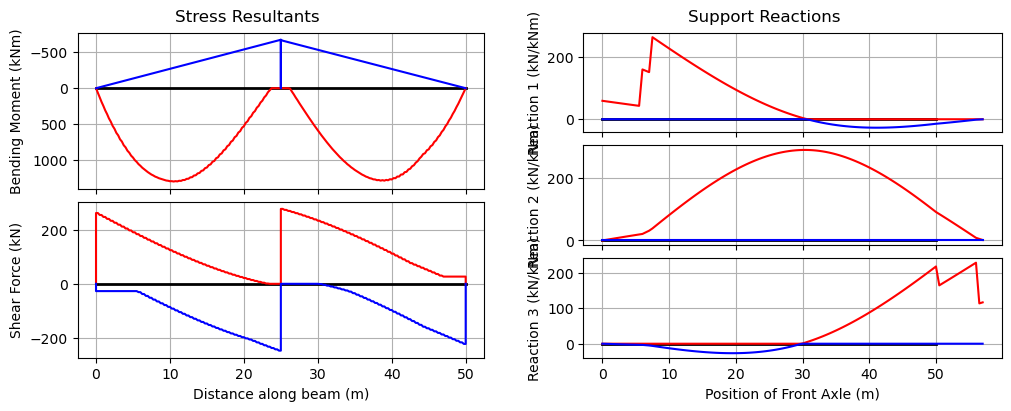
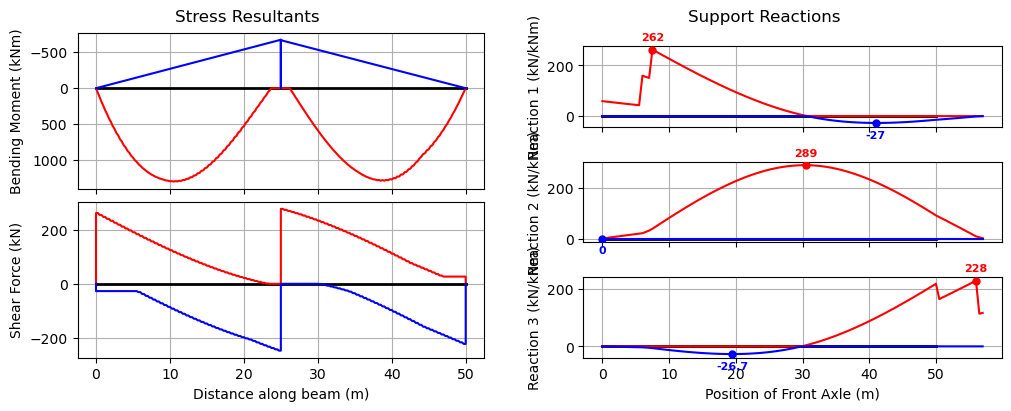
Update documentation

diff --git a/general.html b/general.html
@@ -700,15 +700,35 @@ Use <code class="docutils literal notranslate"><span class="pre">None</span></co
 </section>
 <section id="element-types-eletype">
 <h2>Element Types (<code class="docutils literal notranslate"><span class="pre">eleType</span></code>)<a class="headerlink" href="#element-types-eletype" title="Link to this heading">#</a></h2>
-<p>Each member can be one of several element types, depending on the presence of hinges in the beam.</p>
-<p><strong>Note that at a hinge, only one of the members meeting at that node should have a pinned end.</strong></p>
-<p>The element types are given by an index:</p>
+<p>Each member can be one of several element types, depending on the presence of
+hinges in the beam. The two letters read left end then right end (<code class="docutils literal notranslate"><span class="pre">F</span></code> =
+fixed/continuous, <code class="docutils literal notranslate"><span class="pre">P</span></code> = pinned/released):</p>
 <ol class="arabic simple">
-<li><p>fixed-fixed</p></li>
-<li><p>fixed-pinned</p></li>
-<li><p>pinned-fixed</p></li>
-<li><p>pinned-pinned</p></li>
+<li><p><code class="docutils literal notranslate"><span class="pre">FF</span></code> — fixed-fixed (the default)</p></li>
+<li><p><code class="docutils literal notranslate"><span class="pre">FP</span></code> — fixed-pinned (moment released at the right end)</p></li>
+<li><p><code class="docutils literal notranslate"><span class="pre">PF</span></code> — pinned-fixed (moment released at the left end)</p></li>
+<li><p><code class="docutils literal notranslate"><span class="pre">PP</span></code> — pinned-pinned (released at both ends)</p></li>
 </ol>
+<p><strong>Note that at a hinge, only one of the members meeting at that node should have a pinned end.</strong></p>
+<p>An element type can be given as the integer index, as a <code class="docutils literal notranslate"><span class="pre">MemberType</span></code> enum
+member, or as its case-insensitive name string — the three forms are
+equivalent:</p>
+<div class="highlight-python notranslate"><div class="highlight"><pre><span></span><span class="kn">import</span><span class="w"> </span><span class="nn">pycba</span><span class="w"> </span><span class="k">as</span><span class="w"> </span><span class="nn">cba</span>
+<span class="kn">from</span><span class="w"> </span><span class="nn">pycba</span><span class="w"> </span><span class="kn">import</span> <span class="n">MemberType</span>
+
+<span class="c1"># a two-span beam with a fixed-pinned then a pinned-fixed member</span>
+<span class="n">cba</span><span class="o">.</span><span class="n">BeamAnalysis</span><span class="p">(</span><span class="n">L</span><span class="p">,</span> <span class="n">EI</span><span class="p">,</span> <span class="n">R</span><span class="p">,</span> <span class="n">eletype</span><span class="o">=</span><span class="p">[</span><span class="mi">2</span><span class="p">,</span> <span class="mi">3</span><span class="p">])</span>
+<span class="n">cba</span><span class="o">.</span><span class="n">BeamAnalysis</span><span class="p">(</span><span class="n">L</span><span class="p">,</span> <span class="n">EI</span><span class="p">,</span> <span class="n">R</span><span class="p">,</span> <span class="n">eletype</span><span class="o">=</span><span class="p">[</span><span class="n">MemberType</span><span class="o">.</span><span class="n">FP</span><span class="p">,</span> <span class="n">MemberType</span><span class="o">.</span><span class="n">PF</span><span class="p">])</span>
+<span class="n">cba</span><span class="o">.</span><span class="n">BeamAnalysis</span><span class="p">(</span><span class="n">L</span><span class="p">,</span> <span class="n">EI</span><span class="p">,</span> <span class="n">R</span><span class="p">,</span> <span class="n">eletype</span><span class="o">=</span><span class="p">[</span><span class="s2">&quot;FP&quot;</span><span class="p">,</span> <span class="s2">&quot;PF&quot;</span><span class="p">])</span>
+</pre></div>
+</div>
+<p>When assembling a beam member by member, <code class="docutils literal notranslate"><span class="pre">Beam.add_member</span></code> names the type
+directly:</p>
+<div class="highlight-python notranslate"><div class="highlight"><pre><span></span><span class="n">beam</span> <span class="o">=</span> <span class="n">cba</span><span class="o">.</span><span class="n">Beam</span><span class="p">()</span>
+<span class="n">beam</span><span class="o">.</span><span class="n">add_member</span><span class="p">(</span><span class="mf">5.0</span><span class="p">,</span> <span class="n">EI</span><span class="p">,</span> <span class="s2">&quot;FP&quot;</span><span class="p">)</span>          <span class="c1"># or MemberType.FP, or 2</span>
+<span class="n">beam</span><span class="o">.</span><span class="n">add_member</span><span class="p">(</span><span class="mf">6.0</span><span class="p">,</span> <span class="n">EI</span><span class="p">,</span> <span class="n">MemberType</span><span class="o">.</span><span class="n">PF</span><span class="p">)</span>
+</pre></div>
+</div>
 <p><strong>Dimension</strong>: <code class="docutils literal notranslate"><span class="pre">N</span></code> x 1</p>
 <p><strong>Units</strong>: N/A</p>
 </section>

diff --git a/notebooks/bridge.html b/notebooks/bridge.html
@@ -546,9 +546,9 @@
 <img alt="../_images/notebooks_bridge_11_0.png" src="../_images/notebooks_bridge_11_0.png" />
 </div>
 </div>
-<p>Now we run the vehicle over the bridge, returning the envelope of results. When run as a python script, the <code class="docutils literal notranslate"><span class="pre">matplotlib</span></code> figure will animate each result when <code class="docutils literal notranslate"><span class="pre">plot_all=True</span></code>.</p>
+<p>Now we run the vehicle over the bridge, returning the envelope of results. When run as a python script, the <code class="docutils literal notranslate"><span class="pre">matplotlib</span></code> figure will animate each result when <code class="docutils literal notranslate"><span class="pre">plot_all=True</span></code>. The envelope figure plots the bending-moment and shear-force envelopes alongside each support’s reaction envelope, with the governing maximum and minimum reaction marked and labelled.</p>
 <div class="nbinput docutils container">
-<div class="prompt highlight-none notranslate"><div class="highlight"><pre><span></span>[6]:
+<div class="prompt highlight-none notranslate"><div class="highlight"><pre><span></span>[ ]:
 </pre></div>
 </div>
 <div class="input_area highlight-ipython3 notranslate"><div class="highlight"><pre><span></span><span class="n">bridge_analysis</span><span class="o">.</span><span class="n">run_vehicle</span><span class="p">(</span><span class="mf">0.5</span><span class="p">,</span> <span class="n">plot_env</span><span class="o">=</span><span class="kc">True</span><span class="p">,</span> <span class="n">plot_all</span><span class="o">=</span><span class="kc">False</span><span class="p">);</span>